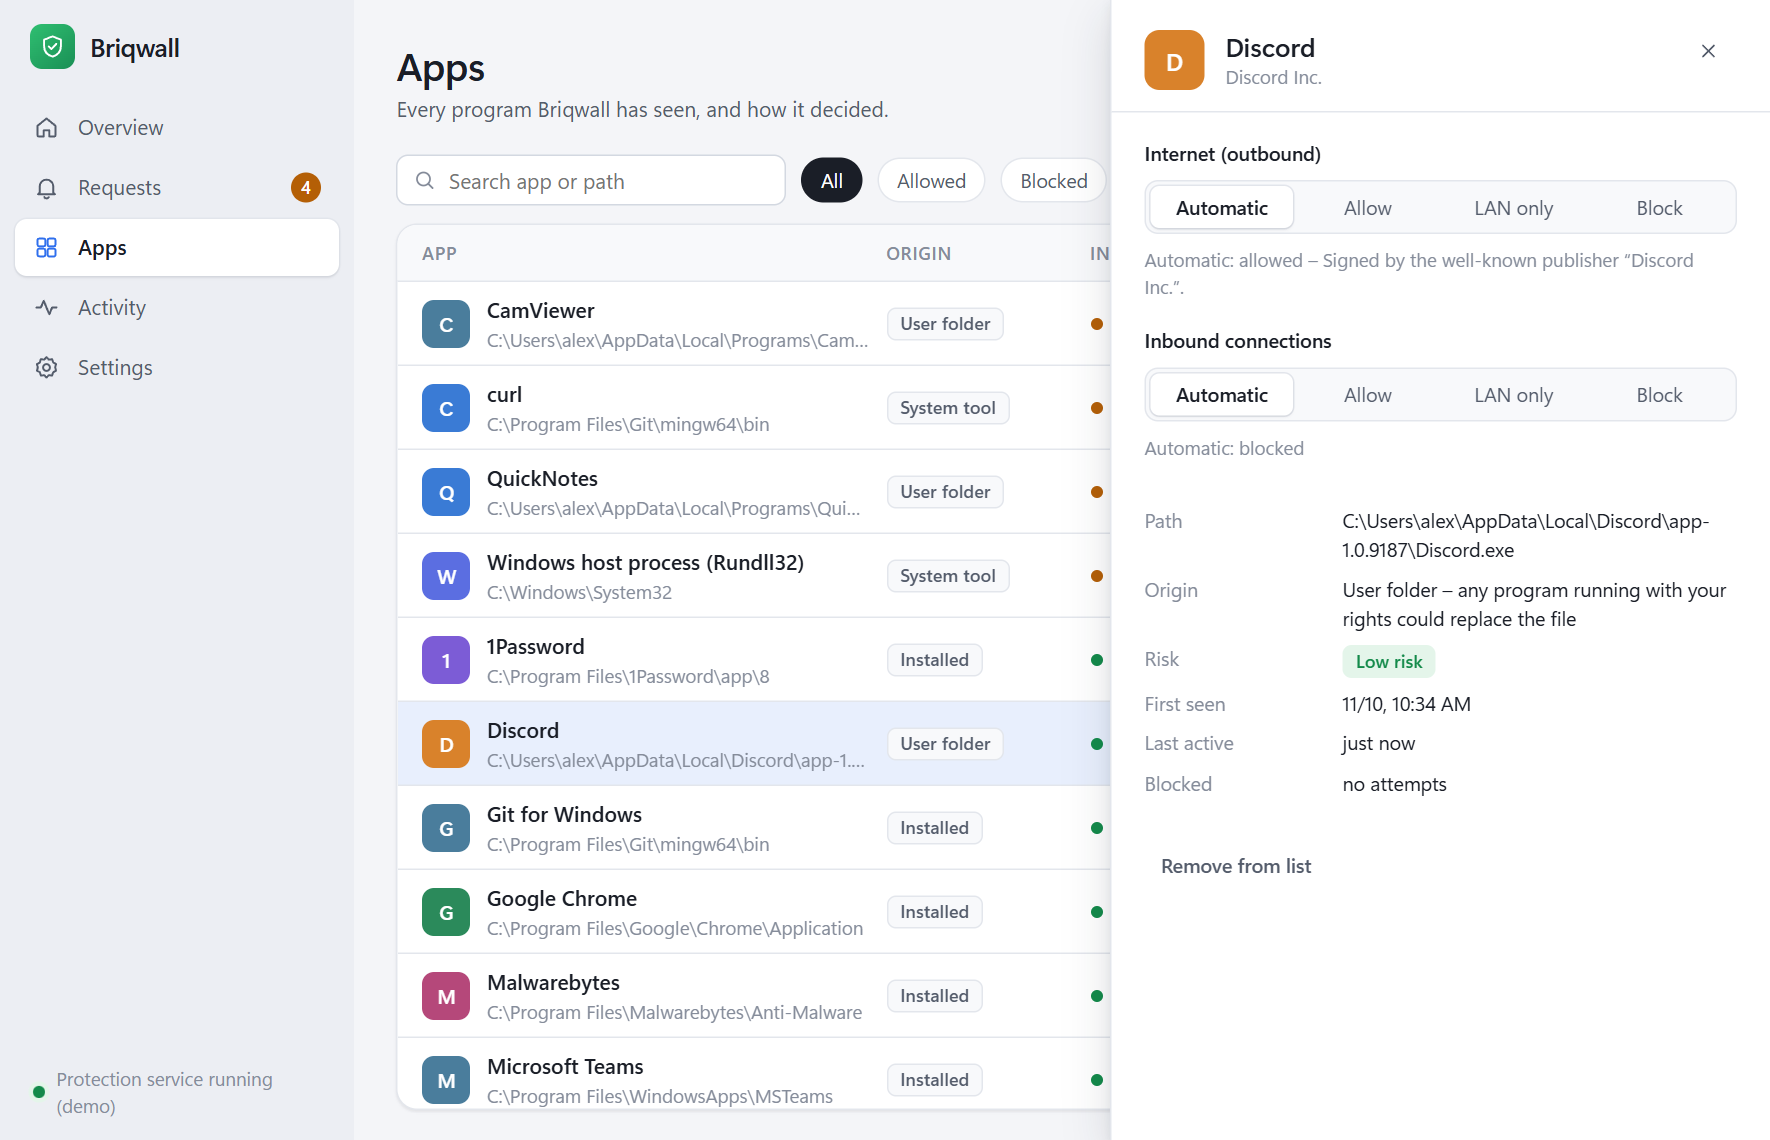
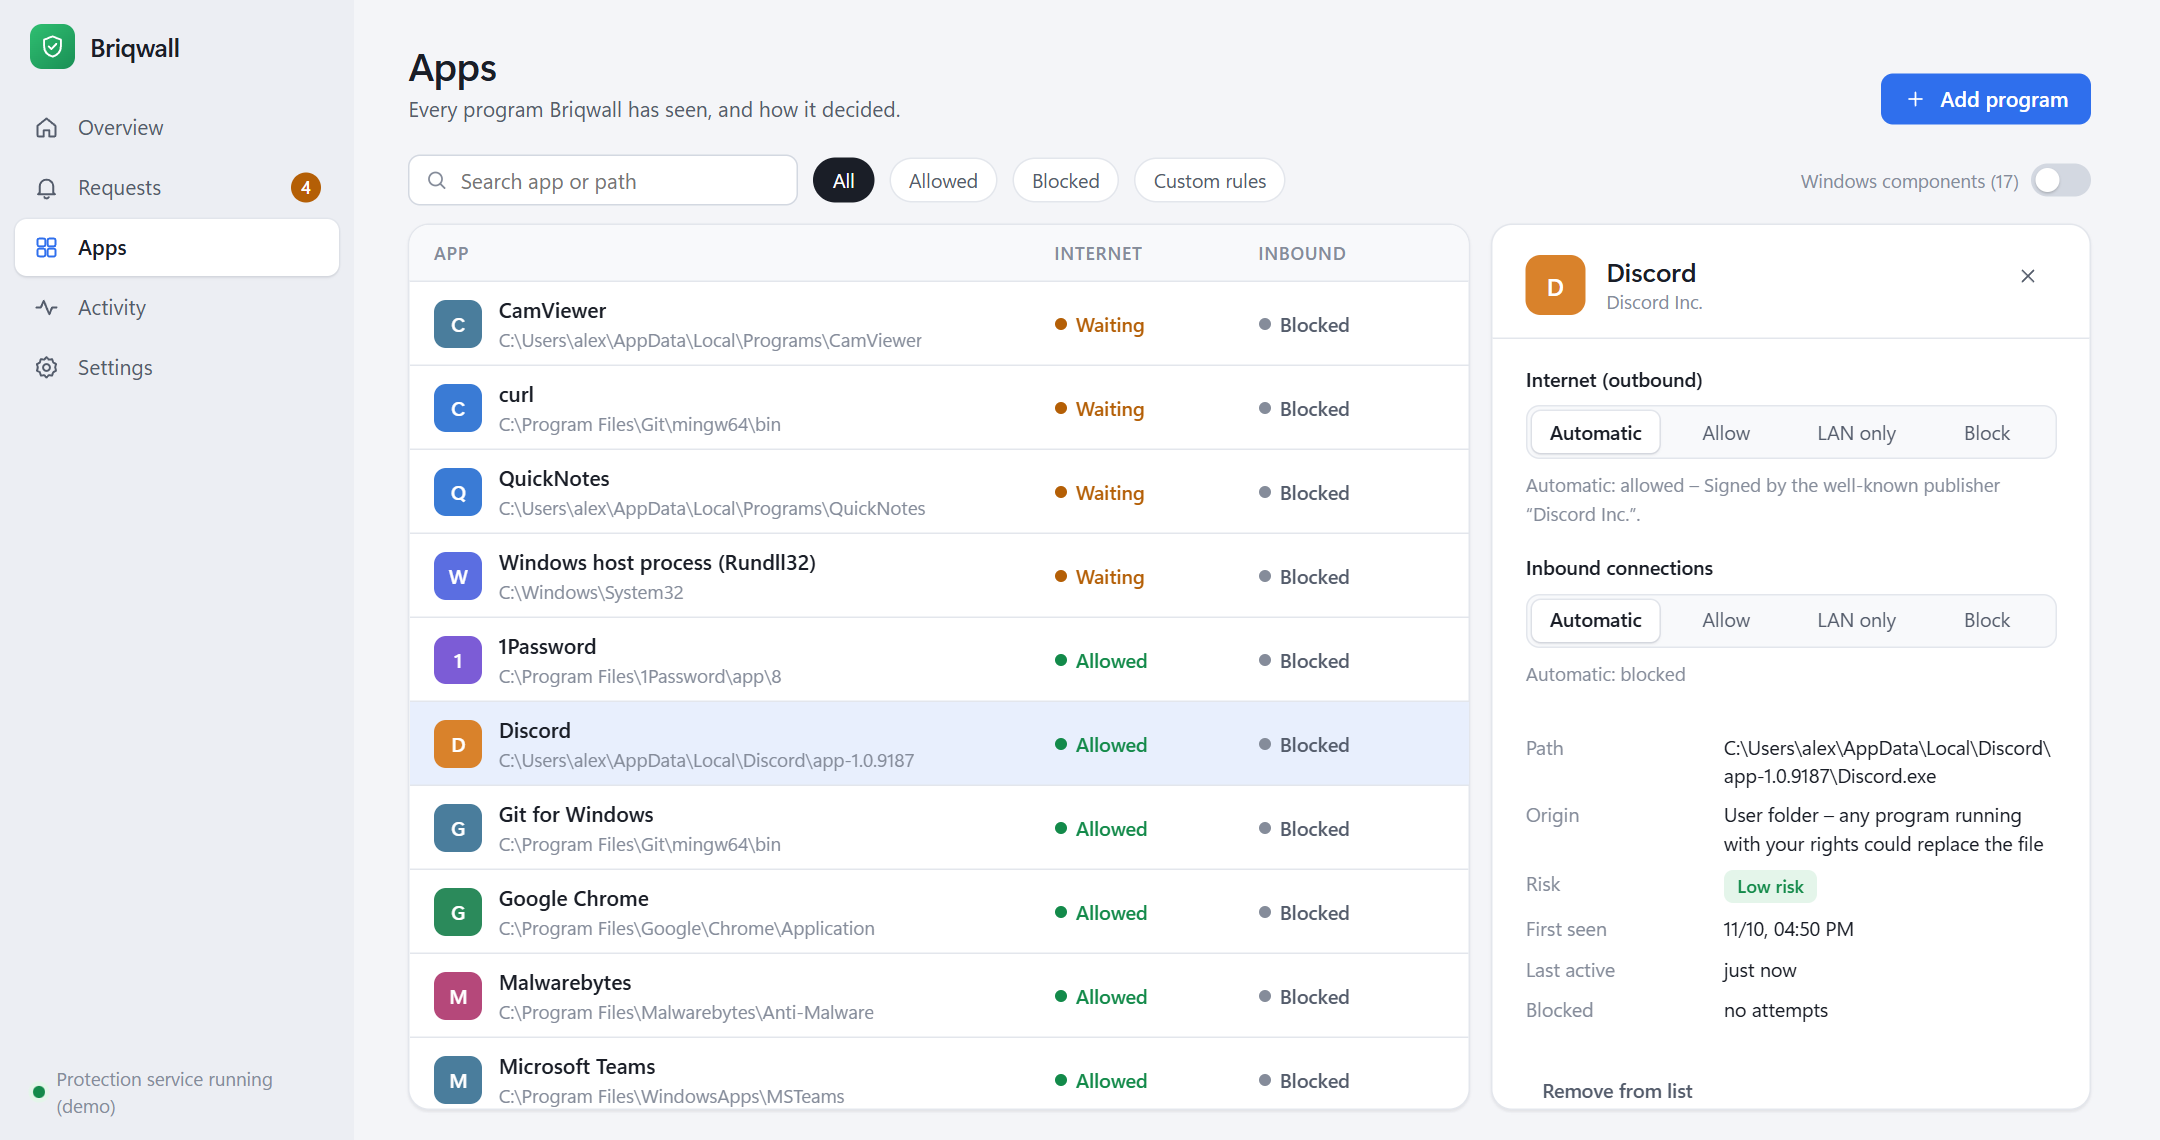
Version 0.10.0
Neu seit 0.9.0:
- Regeln lassen sich manuell anlegen und entfernen ("Programm
  hinzufügen" auf der Apps-Seite)
- Blockierte Verbindungen zeigen den Hostnamen statt nur die IP
- Windows Hello wird je Windows-Konto eingerichtet

Screenshots neu aufgenommen; die Apps-Seite jetzt in einem breiten
Fenster, damit angedockte Details und die neue Schaltfläche zu sehen sind.

diff --git a/ui/src/lib/mock.ts b/ui/src/lib/mock.ts
@@ -229,7 +229,7 @@ export function createMock(): Backend {
   let seq = 0;
   const events: XEvent[] = [];
   const push = (kind: XEvent["kind"], ago = 0) => events.push({ seq: ++seq, time: t() - ago, kind });
-  push({ Started: { version: "0.9.0", mode: "Balanced" } }, 600);
+  push({ Started: { version: "0.10.0", mode: "Balanced" } }, 600);
   push({ AutoAllowed: { key: "discord", name: "Discord", reason: { KnownPublisher: "Discord Inc." } } }, 420);
   push({ Blocked: { key: "curl", name: "curl", remote: "104.20.23.154:443 (HTTPS)", host: "api.example.com", direction: "Out", by_rule: false } }, 360);
   push({ NewRequest: { key: "curl", name: "curl", risk: "Medium" } }, 359);
@@ -241,7 +241,7 @@ export function createMock(): Backend {
   push({ Blocked: { key: "camviewer", name: "CamViewer", remote: "192.168.1.40:9000", direction: "Out", by_rule: false } }, 60);
 
   const status: Status = {
-    version: "0.9.0",
+    version: "0.10.0",
     mode: "Balanced",
     engine_ok: true,
     engine_error: null,

diff --git a/README.de.md b/README.de.md
@@ -183,11 +183,11 @@ Die Branding-Bilder des Installers erzeugt `design\make-installer-images.ps1`.
   passen. Manuell gestartet entstehen nur Build-Artefakte zum Testen.
 
   ```bash
-  git tag v0.9.0
+  git tag v0.10.0
   ```
 
   ```bash
-  git push origin v0.9.0
+  git push origin v0.10.0
   ```
 
 * **Code-Signatur (optional):** Sind die Repository-Secrets

diff --git a/README.md b/README.md
@@ -268,11 +268,11 @@ The installer branding images are generated by
   Started manually, it only produces build artifacts for testing.
 
   ```bash
-  git tag v0.9.0
+  git tag v0.10.0
   ```
 
   ```bash
-  git push origin v0.9.0
+  git push origin v0.10.0
   ```
 
 * **Code signing (optional):** if the repository secrets
